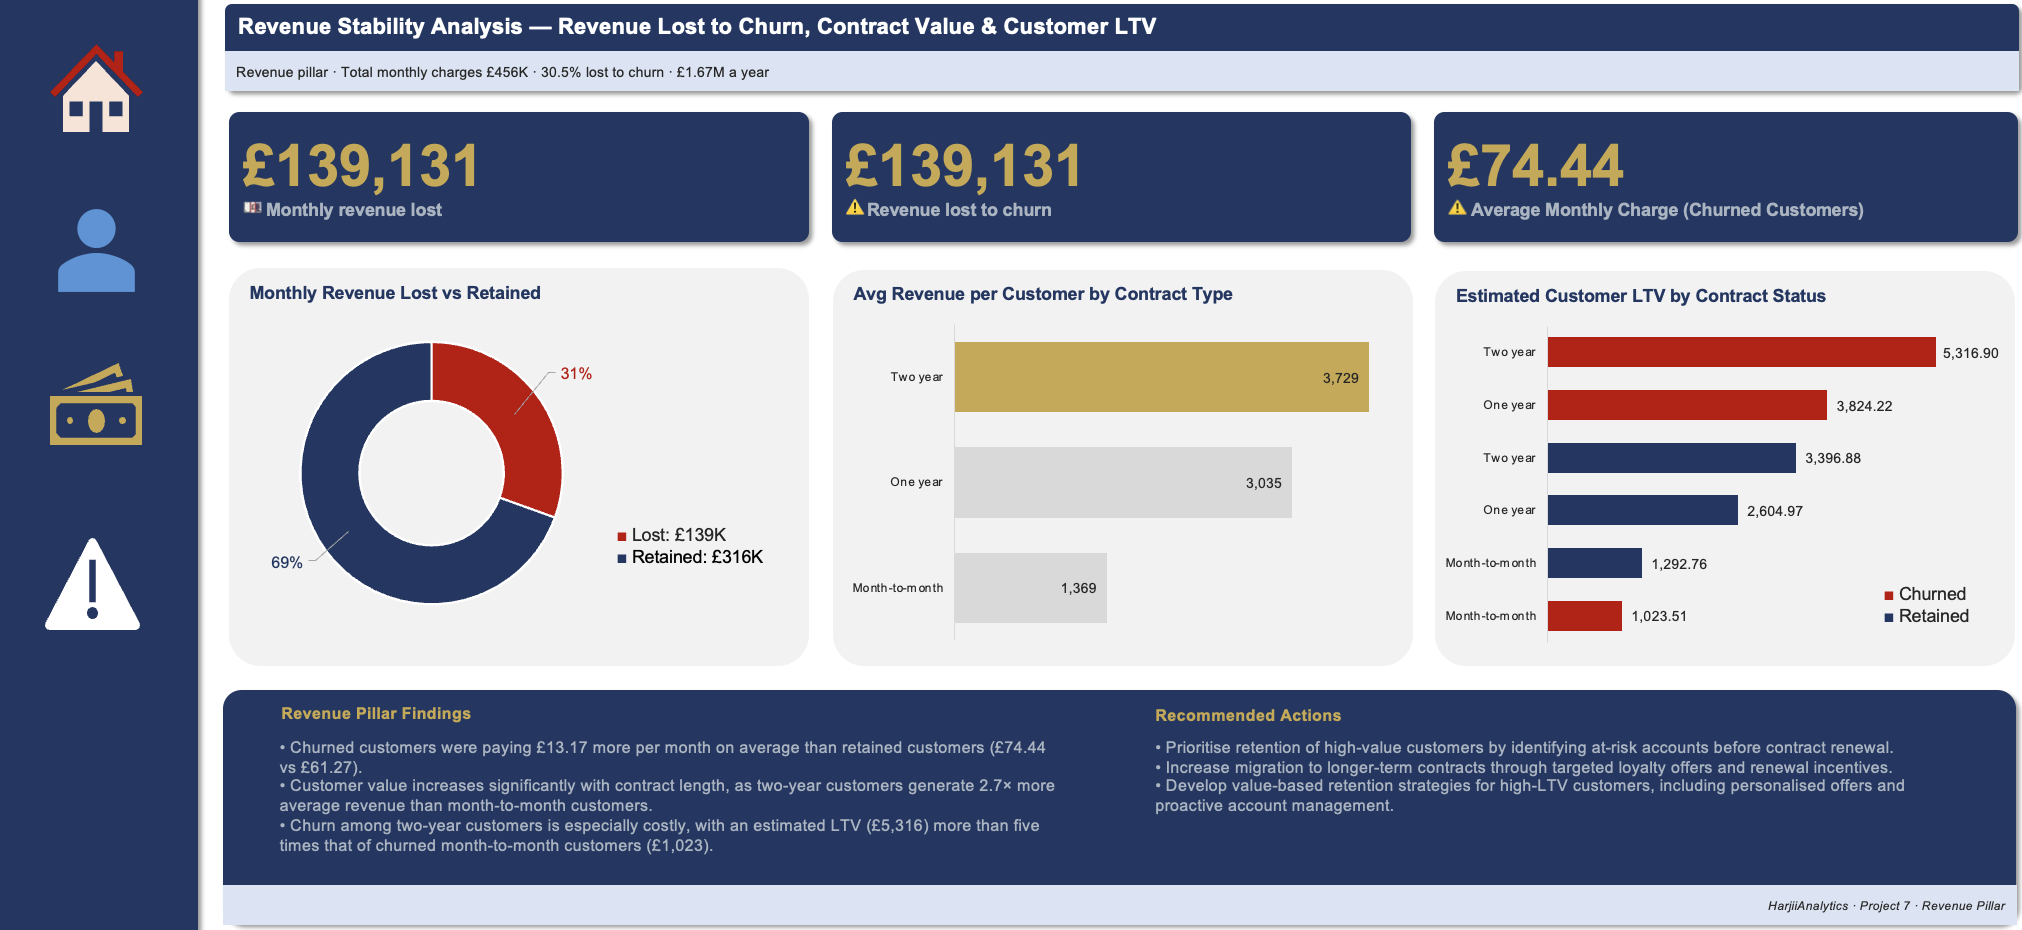
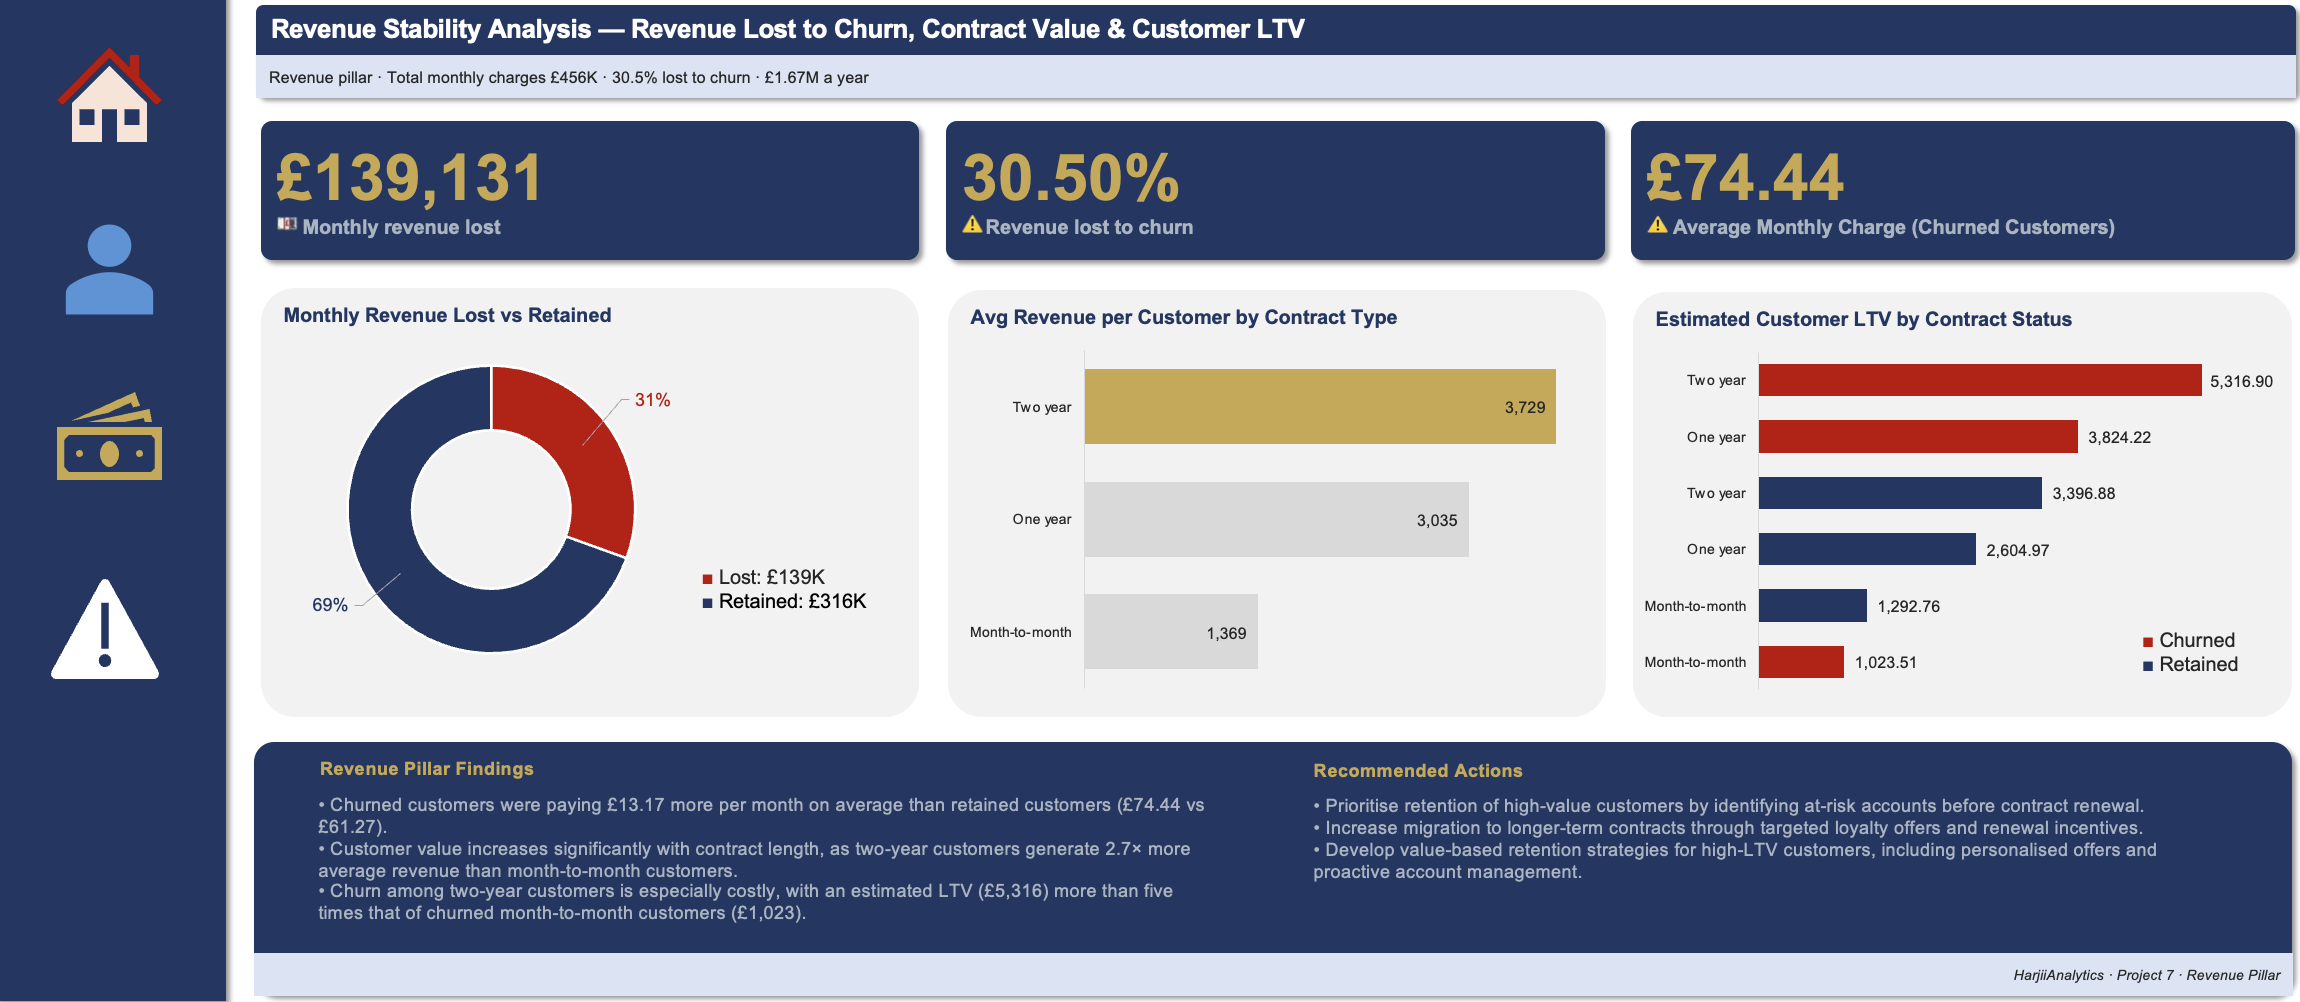
fix: link revenue KPI card to the percentage cell; ignore .DS_Store

diff --git a/README.md b/README.md
@@ -1011,6 +1011,7 @@ See the **LICENSE** file for full details.
 **29 October 2026**
 
 - **Customer and revenue share by contract (charts):** the `Segment_Risk` sheet read the One year and Two year rows from each other's source rows, so three charts showed the two contracts' shares swapped. One year is 20.91% of customers and 21.01% of monthly revenue; Two year is 24.07% and 22.58%. The formulas now point at their own rows and the dashboard images have been re-exported. No figure in this README or on the project page used the swapped values.
+- **Revenue dashboard:** the second KPI card was linked to the monthly £ figure (`KPI_Framework!C9`) instead of the percentage (`C10`). Older images showed 30.50% only because Excel had not refreshed the card; it now reads from `C10`.
 - **Customer dashboard:** "47.44% of churn occurring within the first 12 months" corrected. 47.44% is the churn rate of customers in their first 12 months; they make up 55.5% of all churners.
 - **Payment method:** electronic check churn (45.29%) is about 3× the automatic payment rates (15.24–16.71%), not "more than 3×".
 - **Dashboard wording:** "revenue at risk" relabelled "revenue lost to churn"; "churn driver" replaced with "highest churn rate"; the high-risk profile is described as where churn happened (566 of the 814 had already churned), not as a list of customers to target.
